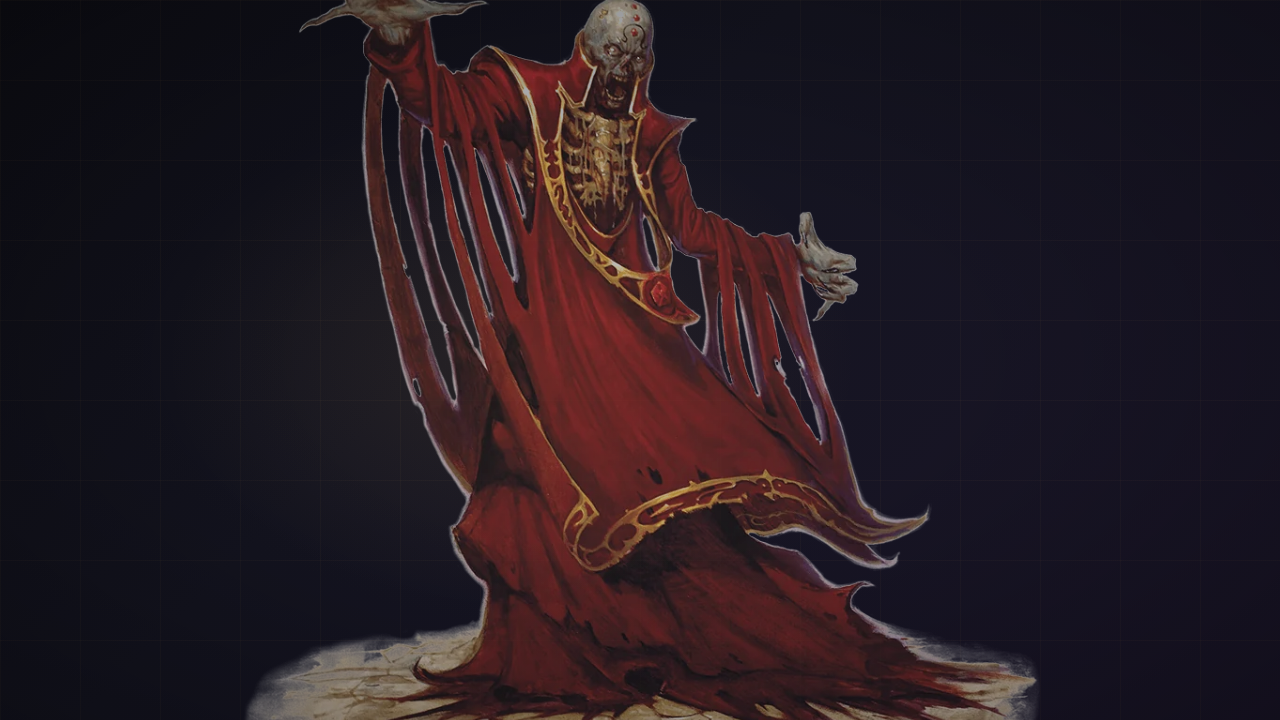
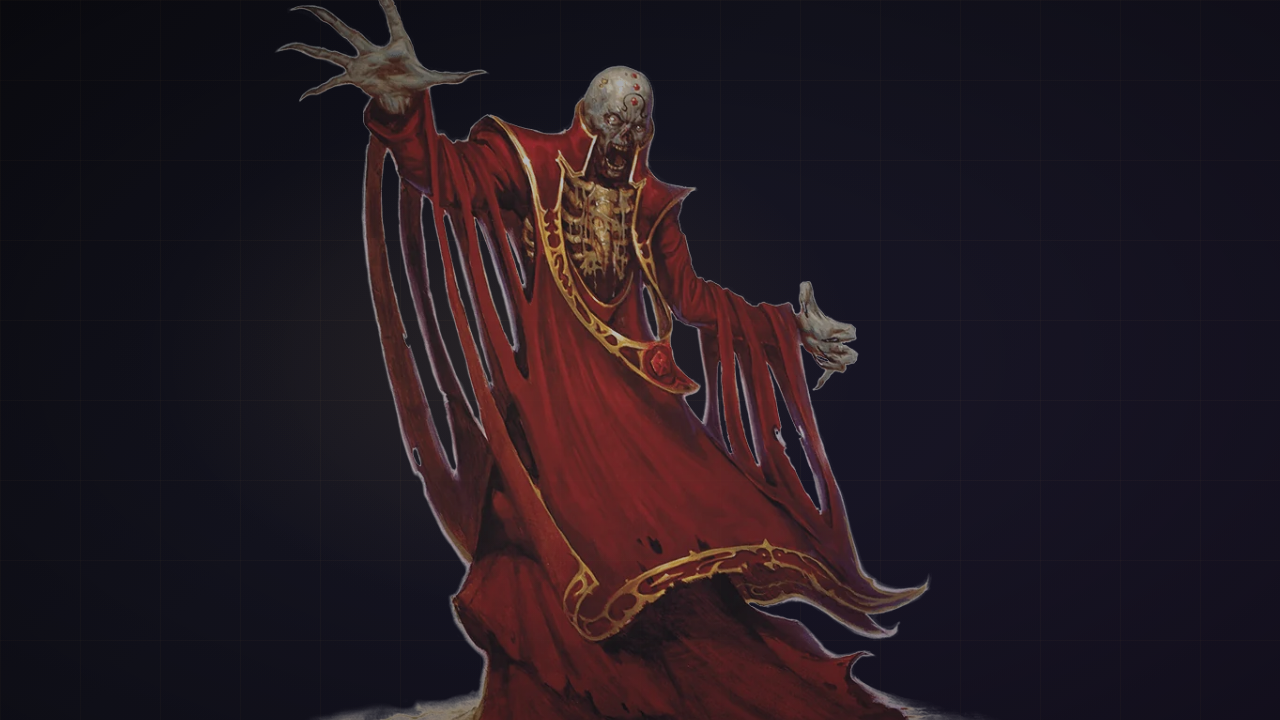
fix(blog): object-position top — rostos visíveis em todas as hero images
- Adiciona object-position: top center no .hero-art (resolve crop de cabeças)
- Remove todos os transform translate customizados (não são mais necessários)
- Chimera mantém largura expandida (1200px)
- Barsavi mantém opacity/brightness customizados

Changed region(s): [[0.1875, 0.0, 0.8125, 1.0], [0.2188, 0.1222, 0.25, 0.1528]]

diff --git a/docs/social-media/arts/blog-hero-visual.html b/docs/social-media/arts/blog-hero-visual.html
@@ -47,6 +47,7 @@
     width: 800px;
     height: 800px;
     object-fit: cover;
+    object-position: top center;
     opacity: 0.70;
     filter: saturate(0.85) brightness(1.2);
     z-index: 0;
@@ -93,7 +94,7 @@
   <div class="hero-bg"></div>
   <div class="hero-grid"></div>
   <div class="hero-glow"></div>
-  <img class="hero-art" src="../arts/assets/death-knight.png" alt="" style="transform: translate(-50%, -30%);">
+  <img class="hero-art" src="../arts/assets/death-knight.png" alt="">
   <div class="hero-vignette"></div>
 </div>
 
@@ -123,7 +124,7 @@
   <div class="hero-bg"></div>
   <div class="hero-grid"></div>
   <div class="hero-glow"></div>
-  <img class="hero-art" src="../arts/assets/medusa.png" alt="" style="transform: translate(-50%, -30%);">
+  <img class="hero-art" src="../arts/assets/medusa.png" alt="">
   <div class="hero-vignette"></div>
 </div>
 
@@ -133,7 +134,7 @@
   <div class="hero-bg"></div>
   <div class="hero-grid"></div>
   <div class="hero-glow"></div>
-  <img class="hero-art" src="../arts/assets/vampire.png" alt="" style="transform: translate(-50%, -30%);">
+  <img class="hero-art" src="../arts/assets/vampire.png" alt="">
   <div class="hero-vignette"></div>
 </div>
 
@@ -143,7 +144,7 @@
   <div class="hero-bg"></div>
   <div class="hero-grid"></div>
   <div class="hero-glow"></div>
-  <img class="hero-art" src="../arts/assets/troll.png" alt="" style="transform: translate(-50%, -30%);">
+  <img class="hero-art" src="../arts/assets/troll.png" alt="">
   <div class="hero-vignette"></div>
 </div>
 
@@ -203,7 +204,7 @@
   <div class="hero-bg"></div>
   <div class="hero-grid"></div>
   <div class="hero-glow"></div>
-  <img class="hero-art" src="../arts/assets/minotaur.png" alt="" style="transform: translate(-50%, -30%);">
+  <img class="hero-art" src="../arts/assets/minotaur.png" alt="">
   <div class="hero-vignette"></div>
 </div>
 
@@ -213,7 +214,7 @@
   <div class="hero-bg" style="background: linear-gradient(135deg, #111122 0%, #1a1320 40%, #1e1528 100%);"></div>
   <div class="hero-grid"></div>
   <div class="hero-glow" style="left: 55%;"></div>
-  <img class="hero-art" src="../arts/assets/capa-barsavi-portrait.png" alt="" style="width: 750px; height: 1000px; opacity: 0.75; filter: saturate(0.9) brightness(1.25); transform: translate(-50%, -30%);">
+  <img class="hero-art" src="../arts/assets/capa-barsavi-portrait.png" alt="" style="width: 750px; height: 1000px; opacity: 0.75; filter: saturate(0.9) brightness(1.25);">
   <div class="hero-vignette"></div>
 </div>
 
@@ -223,7 +224,7 @@
   <div class="hero-bg" style="background: linear-gradient(135deg, #111122 0%, #1a1320 40%, #1e1528 100%);"></div>
   <div class="hero-grid"></div>
   <div class="hero-glow" style="left: 50%;"></div>
-  <img class="hero-art" src="../arts/assets/capa-barsavi-portrait.png" alt="" style="width: 750px; height: 1000px; opacity: 0.75; filter: saturate(0.9) brightness(1.25); transform: translate(-50%, -30%);">
+  <img class="hero-art" src="../arts/assets/capa-barsavi-portrait.png" alt="" style="width: 750px; height: 1000px; opacity: 0.75; filter: saturate(0.9) brightness(1.25);">
   <div class="hero-vignette"></div>
 </div>
 
